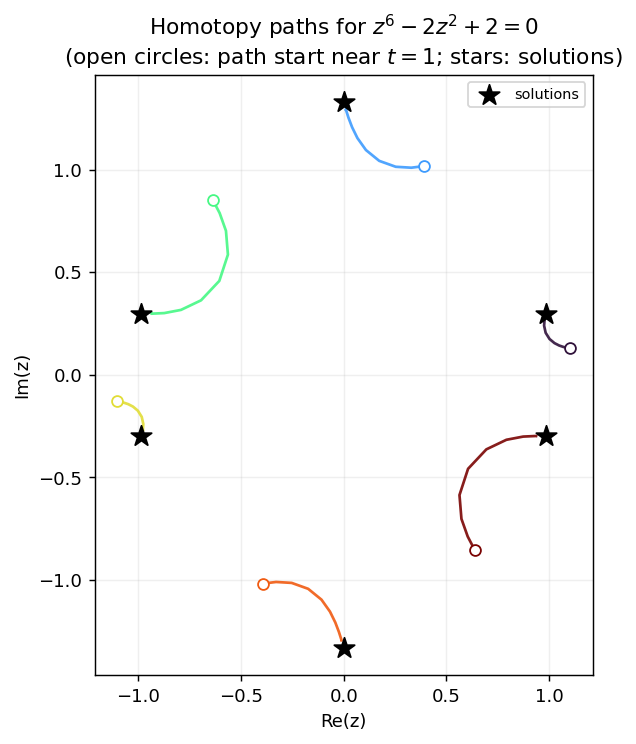
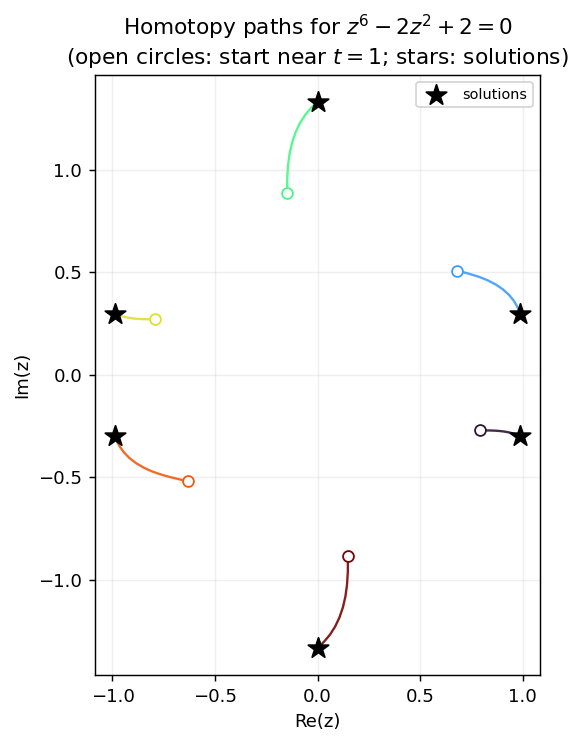
feat(python): SolutionPathCollector — whole solution paths (incl. endgame) in one observer
bertini.nag_algorithm.SolutionPathCollector is the two-level meta-observer the dream
was after. Attach it to a ZeroDim solver: on each PathBeginning it spins up a fresh
tracking PathDataCollector and attaches it to the solver's tracker, and on the matching
PathComplete it harvests that collector into .series and detaches it. Since the solver
reuses one tracker for a path's main homotopy track AND its endgame sub-tracks, the
per-path collector captures the entire journey to t -> 0 -- one clean series per
solution path, endgame included, with no start-time filtering. It picks the right
precision's PathDataCollector via tracker.observers, and recovers the tracker from
event.solver().get_tracker() (RTTI-resolved concrete solver).

The tutorial now leads with SolutionPathCollector (attach to the solver) as the clean
way to collect and plot every path, and the regenerated figure shows each of the six
z^6-2z^2+2 paths running all the way into its solution (the endgame carries the last
leg). The tracker-level PathCollectionObserver is kept and mentioned as the lower-level
building block.

Tests: one series per solution path with the expected indices; whole-path series capture
at least as many steps as the main-track-only filter. Full observer/nag/zero_dim suites
green; docs build clean.

diff --git a/python/bertini/nag_algorithm/__init__.py b/python/bertini/nag_algorithm/__init__.py
@@ -38,6 +38,10 @@ nag_algorithms
 from bertini._pybertini import nag_algorithms as _pybnalag
 from bertini._pybertini.nag_algorithms import *
 
+# Ensure tracker classes have gained their .observers attribute (and PathDataCollector),
+# which SolutionPathCollector relies on.  No cycle: bertini.tracking does not import this.
+from .. import tracking as _tracking
+
 # config structs gain update()/repr/to_dict/...; algorithm classes gain configure().
 from ..config import _enhance_all, _enhance_owners
 _enhance_all(_pybnalag)
@@ -309,12 +313,59 @@ def moving_homotopy(fixed, start_moving, end_moving, *, path_variable='t', gamma
     return _system.make_moving_homotopy(fixed, start_moving, end_moving, path_variable, gamma)
 
 
+# --- SolutionPathCollector: collect every solution path of a whole solve, for plotting ---
+#
+# A two-level meta-observer.  Attach one to a ZeroDim solver; on each PathBeginning it spins
+# up a fresh tracking PathDataCollector, attaches it to the solver's tracker, and on the
+# matching PathComplete harvests it into .series and detaches it.  Because the solver reuses
+# one tracker for a path's main homotopy track AND its endgame sub-tracks, the per-path
+# collector captures the *whole* journey to t -> 0 -- one clean series per solution path,
+# endgame included (no start-time filtering needed).
+class SolutionPathCollector(_pybnalag.observers.CustomObserver):
+    """Collects each solution path of a ZeroDim solve into its own time series.
+
+    Usage::
+
+        a = SolutionPathCollector()
+        solver.add_observer(a)
+        solver.solve()
+        for path in a.series:          # one tracking.PathDataCollector per solution path
+            t, z = path.times(), path.points()
+            ...
+    """
+
+    def __init__(self):
+        super().__init__()
+        self.series = []        # finished PathDataCollector per solution path, in completion order
+        self._active = {}       # path_index -> (tracker, collector)
+
+    def Observe(self, event):
+        obs = _pybnalag.observers
+        if isinstance(event, obs.PathBeginning):
+            tracker = event.solver().get_tracker()
+            # tracker.observers is the precision-appropriate module (set in bertini.tracking)
+            collector = tracker.observers.PathDataCollector()
+            collector.path_index = event.path_index()
+            tracker.add_observer(collector)
+            self._active[event.path_index()] = (tracker, collector)
+        elif isinstance(event, obs.PathComplete):
+            entry = self._active.pop(event.path_index(), None)
+            if entry is not None:
+                tracker, collector = entry
+                tracker.remove_observer(collector)
+                self.series.append(collector)
+
+
+_pybnalag.observers.SolutionPathCollector = SolutionPathCollector
+
+
 __all__ = dir(_pybnalag)
 __all__.append('ZeroDim')
 __all__.append('user_homotopy')
 __all__.append('coefficient_parameter_homotopy')
 __all__.append('moving_homotopy')
 __all__.append('blend_homotopy')
+__all__.append('SolutionPathCollector')
 
 
 # DoublePrecisionTotalDegree = bertini._pybertini.nag_algorithms.ZeroDimCauchyDoublePrecisionTotalDegree

diff --git a/python/test/tracking/meta_observer_test.py b/python/test/tracking/meta_observer_test.py
@@ -185,6 +185,55 @@ def test_nag_observer_rejected_on_tracker_and_vice_versa():
         solver.add_observer(tk.observers.amp.CustomObserver())
 
 
+def test_solution_path_collector_one_series_per_solution_path():
+    """The two-level meta-observer: attached to the SOLVER, it yields exactly one
+    collector per solution path, each capturing the whole journey (main homotopy
+    track AND endgame sub-tracks), with no start-time filtering."""
+    from bertini.nag_algorithm import SolutionPathCollector
+
+    sys = _circle_meets_line()
+    solver = ZeroDim(sys, mptype='amp')
+
+    a = SolutionPathCollector()
+    solver.add_observer(a)
+    solver.solve()
+
+    assert len(solver.solutions()) == 2
+    assert len(a.series) == 2                       # exactly one per solution path
+    for path in a.series:
+        assert len(path) > 0
+        assert hasattr(path, "path_index")
+        # the tracked point lives in the homogenized space the start system uses
+        assert path.points().shape[1] >= sys.num_variables()
+
+    # the collected indices are the two total-degree paths
+    assert sorted(p.path_index for p in a.series) == [0, 1]
+
+
+def test_solution_path_collector_captures_more_than_the_main_track():
+    """A SolutionPathCollector series (whole path incl. endgame) has at least as many
+    steps as the bare main homotopy track alone -- it picks up the endgame sub-tracks
+    that the tracker-level start-time filter discards."""
+    from bertini.nag_algorithm import SolutionPathCollector
+
+    sys = _circle_meets_line()
+
+    solver = ZeroDim(sys, mptype='amp')
+    a = SolutionPathCollector()
+    solver.add_observer(a)
+    solver.solve()
+    whole_path_steps = sum(len(p) for p in a.series)
+
+    # tracker-level collector keeps only the main tracks (|t| start > 0.5)
+    solver2 = ZeroDim(sys, mptype='amp')
+    b = tk.observers.amp.PathCollectionObserver()
+    solver2.get_tracker().add_observer(b)
+    solver2.solve()
+    main_only_steps = sum(len(s) for s in b.series if abs(s.start_time) > 0.5)
+
+    assert whole_path_steps >= main_only_steps > 0
+
+
 def test_zerodim_solve_collects_all_paths():
     sys = _circle_meets_line()
     solver = ZeroDim(sys, mptype='amp')

diff --git a/python/docs/source/tutorials/observers_and_path_data.rst b/python/docs/source/tutorials/observers_and_path_data.rst
@@ -80,26 +80,29 @@ DataFrame (a ``t`` column, one ``z0``, ``z1``, ... per variable, then the diagno
 The meta-observer: every path of a whole solve
 ==============================================
 
-A zero-dimensional solve tracks *many* paths, reusing **one** tracker for all of them.  We could
-watch them with a single observer that resets its buffer each time a path starts -- a single
-observer is free to handle many event types.  But there is a tidier way that doubles as a fun
-design exercise: an observer that, in response to events, attaches and detaches *other*
-observers.
+A zero-dimensional solve tracks *many* paths, reusing **one** tracker for all of them.  We want
+one ``PathDataCollector`` per solution path -- but a collector watches a tracker, while "which
+path are we on" is known only to the *solver*.  The elegant fix is an observer that, in response
+to the solver's events, attaches and detaches *other* observers: a meta-observer.
 
-``PathCollectionObserver`` is exactly that meta-observer.  On every ``TrackingStarted`` it spins
-up a fresh ``PathDataCollector``, attaches it, and on ``TrackingEnded`` it harvests that
-collector into ``.series`` and detaches it.  Each path therefore gets its own collector with its
-own empty buffer -- per-path isolation for free, no boundary bookkeeping.  Attaching and
-detaching happen *from inside* ``Observe`` (mid-notification); the observable defers those changes
-until the current notification finishes, which is what makes this safe.
+That is exactly :class:`bertini.nag_algorithm.SolutionPathCollector`.  You attach it to the
+**solver**.  The solver emits ``PathBeginning``/``PathComplete`` around each path; on
+``PathBeginning`` the meta-observer spins up a fresh ``PathDataCollector`` and attaches it to the
+solver's tracker, and on ``PathComplete`` it harvests that collector into ``.series`` and detaches
+it.  Each path gets its own collector with its own empty buffer -- per-path isolation for free.
+
+Because the solver reuses its one tracker for a path's main homotopy track **and** that path's
+endgame sub-tracks, the collector that is attached for the whole ``PathBeginning``-to-
+``PathComplete`` window captures the *entire* journey to :math:`t \to 0`, endgame included --
+without any filtering.  (The attach and detach happen *from inside* ``Observe``; the observable
+defers those changes until the current notification finishes, which is what makes it safe.)
 
 We will solve a degree-six univariate polynomial -- a total-degree homotopy with six paths::
 
     import numpy as np
     import matplotlib.pyplot as plt
     import bertini
-    from bertini.nag_algorithm import ZeroDim
-    import bertini.tracking as tracking
+    from bertini.nag_algorithm import ZeroDim, SolutionPathCollector
 
     z = bertini.Variable('z')
     sys = bertini.System()
@@ -108,18 +111,11 @@ We will solve a degree-six univariate polynomial -- a total-degree homotopy with
 
     solver = ZeroDim(sys, mptype='adaptive')
 
-    A = tracking.observers.amp.PathCollectionObserver()
-    solver.get_tracker().add_observer(A)
+    A = SolutionPathCollector()
+    solver.add_observer(A)
     solver.solve()
 
-After the solve, ``A.series`` holds one finished collector per *track*.  There is a subtlety
-worth knowing: the solver reuses its tracker for the endgame too, so ``A.series`` also contains
-many short endgame sub-tracks.  Each collector is tagged with its track's ``start_time``, so the
-*main* homotopy paths -- the ones that begin at the global start time :math:`|t| = 1` -- are
-trivial to pick out::
-
-    main_paths = [b for b in A.series if abs(b.start_time) > 0.5]
-    assert len(main_paths) == 6
+    assert len(A.series) == 6          # one PathDataCollector per solution path
 
 Plotting the paths
 ==================
@@ -130,11 +126,11 @@ path in the complex plane::
 
     fig, ax = plt.subplots(figsize=(6, 6))
     cmap = plt.get_cmap('turbo')
-    for i, path in enumerate(main_paths):
+    for i, path in enumerate(A.series):
         pts  = path.points()
         zaff = pts[:, 1] / pts[:, 0]                 # dehomogenize to affine z
-        color = cmap(i / max(len(main_paths) - 1, 1))
-        ax.plot(zaff.real, zaff.imag, '-', color=color, lw=1.5)
+        color = cmap(i / max(len(A.series) - 1, 1))
+        ax.plot(zaff.real, zaff.imag, '-', color=color, lw=1.3)
         ax.plot(zaff.real[0], zaff.imag[0], 'o', color=color, ms=6, mfc='white')  # start, t near 1
 
     sols = [complex(s[0]) for s in solver.solutions()]
@@ -150,8 +146,13 @@ path in the complex plane::
 
    The six homotopy paths of :math:`z^6 - 2z^2 + 2 = 0`.  Open circles are where each path is
    first sampled (near the start time :math:`t=1`); stars are the computed solutions
-   (:math:`t \to 0`).  Each curve stops at the endgame boundary, where the Cauchy endgame takes
-   over to finish the path -- which is why a small gap remains between each curve and its star.
+   (:math:`t \to 0`).  Each path runs all the way to its solution -- the endgame sub-tracks,
+   captured alongside the main track, carry it the last of the way in.
+
+If instead you want the bare tracker-level building block (one series per *track*, with endgame
+sub-tracks kept separate), attach a ``bertini.tracking.observers.<precision>.PathCollectionObserver``
+to ``solver.get_tracker()`` directly; each of its series is tagged with a ``start_time`` so you can
+tell main tracks from endgame loops.
 
 From here you can collect anything the tracker exposes: plot the condition number along each path
 to see where tracking got hard, colour by precision to watch adaptive precision kick in, or feed
